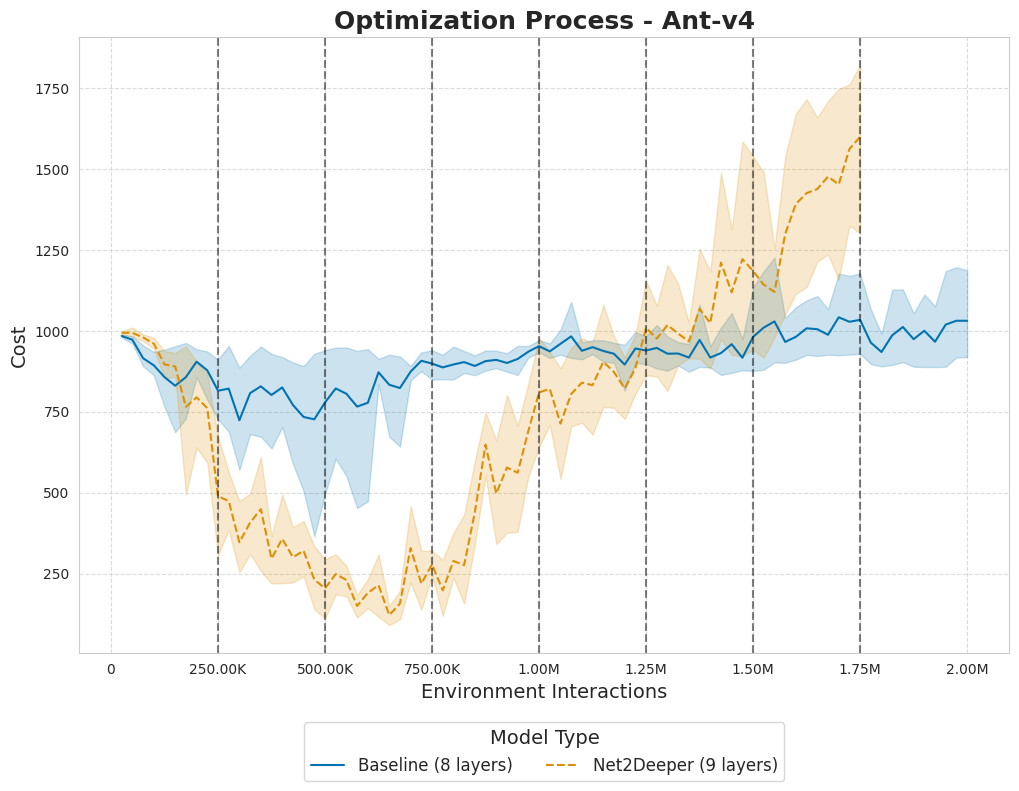
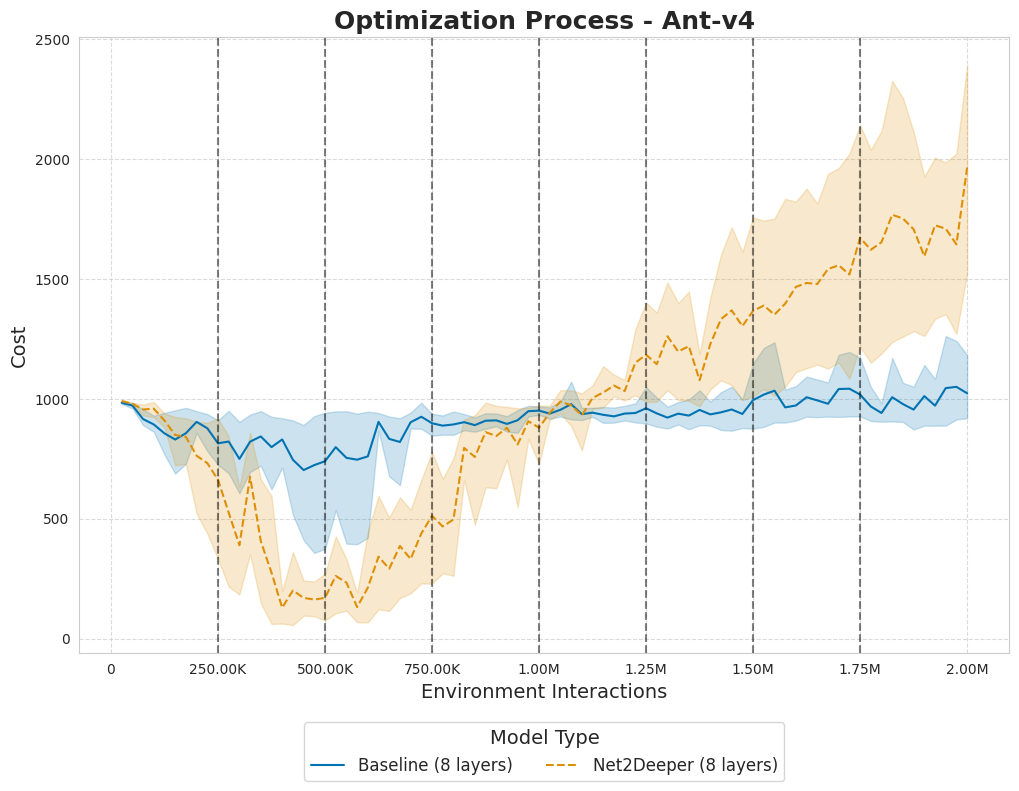
Plot action sizes

diff --git a/plotting/ant/net2deeper/plot_action_sizes.py b/plotting/ant/net2deeper/plot_action_sizes.py
@@ -1,0 +1,70 @@
+import pandas as pd
+import seaborn as sns
+from utils.plotting import training_process_style, get_logtable, set_rc_params, convert_dataframe_gym
+import matplotlib.pyplot as plt
+from typing import Dict
+
+set_rc_params()
+
+
+def get_data(database_name: str, appraoch_experiment_ids: Dict[int, int]) -> pd.DataFrame:
+    appraoch_training_process_data = get_logtable(database_name=database_name, table_name="ant_net2deeper", logtable_name="training_process")
+    for appraoch_name, approach_experiment_id in appraoch_experiment_ids.items():
+        appraoch_smac_callback_data = get_logtable(database_name=database_name, table_name="ant_net2deeper", logtable_name="smac_callbacks")
+        appraoch_smac_callback_data = appraoch_smac_callback_data[appraoch_smac_callback_data["experiment_id"] == approach_experiment_id]
+        incumbent_hyperparameter_str_identifier = appraoch_smac_callback_data[appraoch_smac_callback_data["cost"] == appraoch_smac_callback_data["cost"].min()]["hyperparameter_str_identifier"].iloc[0]
+        trial_numbers = appraoch_smac_callback_data[appraoch_smac_callback_data["hyperparameter_str_identifier"] == incumbent_hyperparameter_str_identifier]["trial_number"] - 1.0
+
+        experiment_training_process_data = appraoch_training_process_data[appraoch_training_process_data["experiment_id"] == approach_experiment_id]
+        experiment_training_process_data = {trial_number: experiment_training_process_data[appraoch_training_process_data["trial_number"] == trial_number] for trial_number in trial_numbers}
+
+        max_timestep = experiment_training_process_data[trial_numbers.max()]["timestep"].max()
+        for budget, (trial_number, training_process_data) in enumerate(sorted(experiment_training_process_data.items())):
+            training_process_data["timestep"] += max_timestep * budget
+
+        approach_data = pd.concat(experiment_training_process_data.values(), ignore_index=True)
+        action_data = approach_data[["timestep", "action_sizes_mean"]]
+        approach_data = approach_data[["timestep", "worker_id", "all_costs"]]
+        approach_data = convert_dataframe_gym(approach_data)
+
+        return (approach_data, action_data)
+
+
+def plot_incumbent_interactions_8_layers():
+    database_name = "fehring_growing_nn_new_seeded"
+
+    appraoch_experiment_ids = {
+        "Net2Deeper (8 layers)": 22,
+    }
+
+    training_process_data, action_data = get_data(database_name, appraoch_experiment_ids)
+
+    training_process_style()
+    line_styles = ["-", "--", ":", "-.", (0, (1, 10)), (0, (5, 10)), (0, (3, 10, 1, 10)), (0, (1, 1)), (0, (5, 1)), (0, (3, 1, 1, 1))]
+
+    sns.lineplot(x="timestep", y="episode_reward", data=training_process_data, label="Net2Deeper (8 layers)", linestyle=line_styles[0])
+    plt.ylabel("Cost", fontsize=14)
+    # get ax object
+
+    action_size_color = sns.color_palette()[1]
+    legend_labels = ["Net2Deeper (8 layers)", "Average Action Size"]
+    # second value in the color palette
+    legend_items = [plt.Line2D([0], [0], color="blue", linestyle="-"), plt.Line2D([0], [0], color=action_size_color, linestyle="--")]
+    plt.legend(legend_items, legend_labels, fontsize=12, title_fontsize=14, loc="center", bbox_to_anchor=(0.5, -0.16), ncol=2)
+    plt.grid(True, linestyle="--", alpha=0.7)
+    ax = plt.gca()
+    ax2 = ax.twinx()
+    sns.lineplot(x="timestep", y="action_sizes_mean", data=action_data, color=action_size_color, ax=ax2, linestyle="--")
+
+    for timestep in range(250000, 2000000, 250000):
+        plt.axvline(x=timestep, color="black", linestyle="--", alpha=0.5)
+
+    plt.title("Optimization Process - Ant-v4", fontsize=18, fontweight="bold")
+    plt.xlabel("Environment Interactions", fontsize=14)
+    plt.ylabel("Average Action Size", fontsize=14)
+    ax2.grid(False)
+
+    plt.savefig("plotting/ant/net2deeper/action_size", bbox_inches="tight")
+
+
+plot_incumbent_interactions_8_layers()

diff --git a/plotting/ant/net2deeper/incumbent_training_process.py b/plotting/ant/net2deeper/incumbent_training_process.py
@@ -90,7 +90,7 @@ def plot_incumbent_interactions_8_layers():
     }
 
     appraoch_experiment_ids = {
-        "Net2Deeper (7 layers)": 10,
+        "Net2Deeper (8 layers)": 22,
     }
 
     baseline_data, appraoch_data = get_data(database_name, baseline_experiment_ids, appraoch_experiment_ids)
@@ -118,7 +118,7 @@ def plot_incumbent_interactions_8_layers():
     plt.legend(title="Model Type", fontsize=12, title_fontsize=14, loc="center", bbox_to_anchor=(0.5, -0.16), ncol=3)
     plt.grid(True, linestyle="--", alpha=0.7)
 
-    plt.savefig("plotting/ant/net2deeper/incumbent_training_process_7_layers", bbox_inches="tight")
+    plt.savefig("plotting/ant/net2deeper/incumbent_training_process_8_layers", bbox_inches="tight")
 
 
 plot_incumbent_interactions_4_layers()

diff --git a/plotting/ant/overall_training_process/plot_training_process.py b/plotting/ant/overall_training_process/plot_training_process.py
@@ -50,7 +50,7 @@ def plot_one_million_interactions():
     database_name = "fehring_growing_nn_new_seeded"
     baseline_experiment_ids = {"Baseline (2 layers)": 18, "Baseline (4 layers)": 19, "Baseline (8 layers)": 20}
 
-    appraoch_experiment_ids = {"Net2Deeper (4 layers)": 9, "Net2Deeper (7 layers)": 10}
+    appraoch_experiment_ids = {"Net2Deeper (4 layers)": 9, "Net2Deeper (8 layers)": 22}
 
     baseline_data, appraoch_data = get_data(database_name, baseline_experiment_ids, appraoch_experiment_ids)
 
